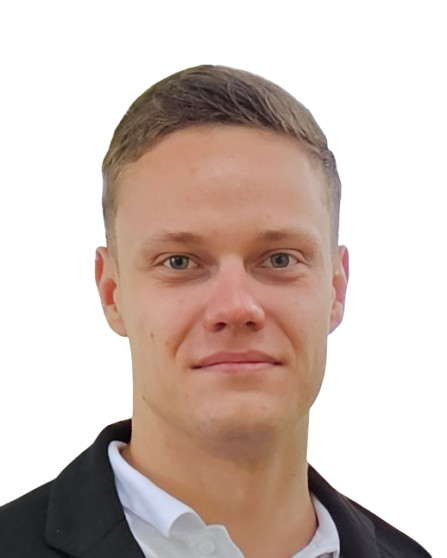
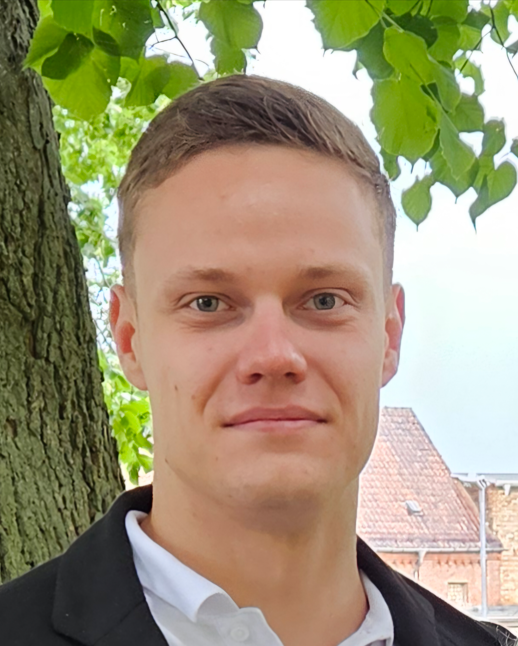
feat: rename profil picture and update the about-me section path

diff --git a/src/app/about-me/about-me.component.html b/src/app/about-me/about-me.component.html
@@ -2,7 +2,7 @@
   <div class="content-width">
     <div class="container-picture-and-about-me">
       <div class="profil-img" id="profile-container">
-        <img src="assets/imgs/pb/pb_github.png" alt="Profile image">
+        <img src="assets/imgs/pb/pb.png" alt="Profile image">
         <img class="background-hover" src="assets/imgs/about-me/hover-background.png" alt="Background image">
       </div>
       <div class="about-me-info">
